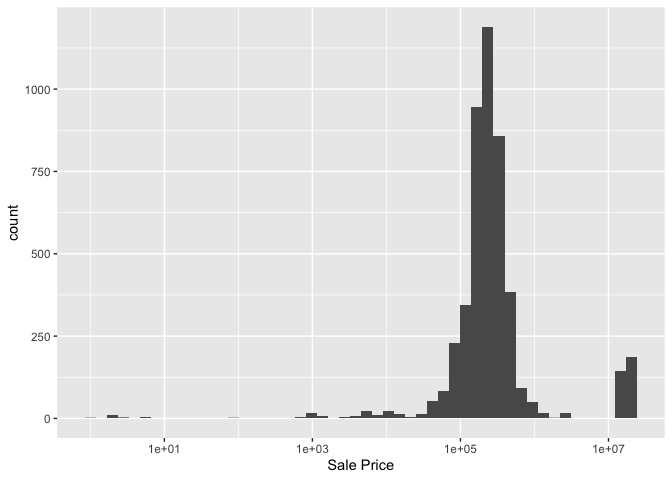
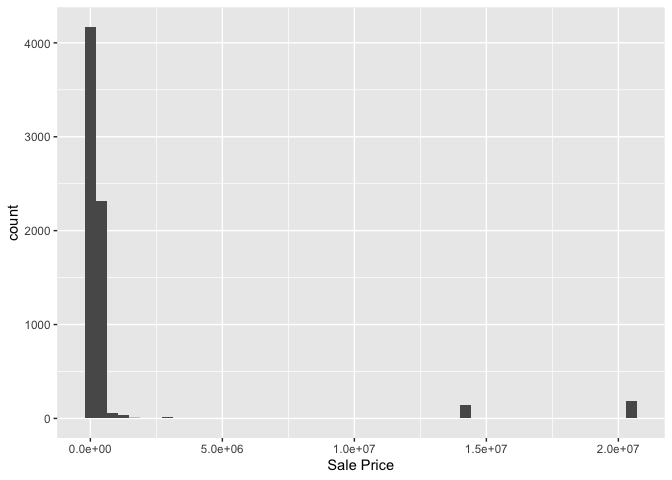
Step 3

diff --git a/README.md b/README.md
@@ -139,6 +139,15 @@ Min : 0 Max : 20500000
 
 ``` r
 library(ggplot2)
+ggplot(ames, aes(x = `Sale Price`)) + geom_histogram(bins = 50) 
+```
+
+![](README_files/figure-gfm/unnamed-chunk-5-1.png)<!-- -->
+
+Plot without scaling
+
+``` r
+library(ggplot2)
 ggplot(ames, aes(x = `Sale Price`)) + geom_histogram(bins = 50) + scale_x_log10()
 ```
 
@@ -147,6 +156,16 @@ ggplot(ames, aes(x = `Sale Price`)) + geom_histogram(bins = 50) + scale_x_log10(
     ## Warning: Removed 2206 rows containing non-finite outside the scale range
     ## (`stat_bin()`).
 
-![](README_files/figure-gfm/unnamed-chunk-5-1.png)<!-- -->
+![](README_files/figure-gfm/unnamed-chunk-6-1.png)<!-- --> The histogram
+is scaled in the above figure
+
+The histogram shows that most houses are sold in the lower price ranges,
+while very few houses are sold at very high prices. This has resulted in
+a skewed distribution, where a majority of the houses are priced at.
+
+Some unusual is that there are some extremely high prices when compared
+to the general range and prices in the data.
 
 ## Step 4
+
+Praneet: Acres Nikhil: Occupancy Sravya: Year Built Alina: Style
